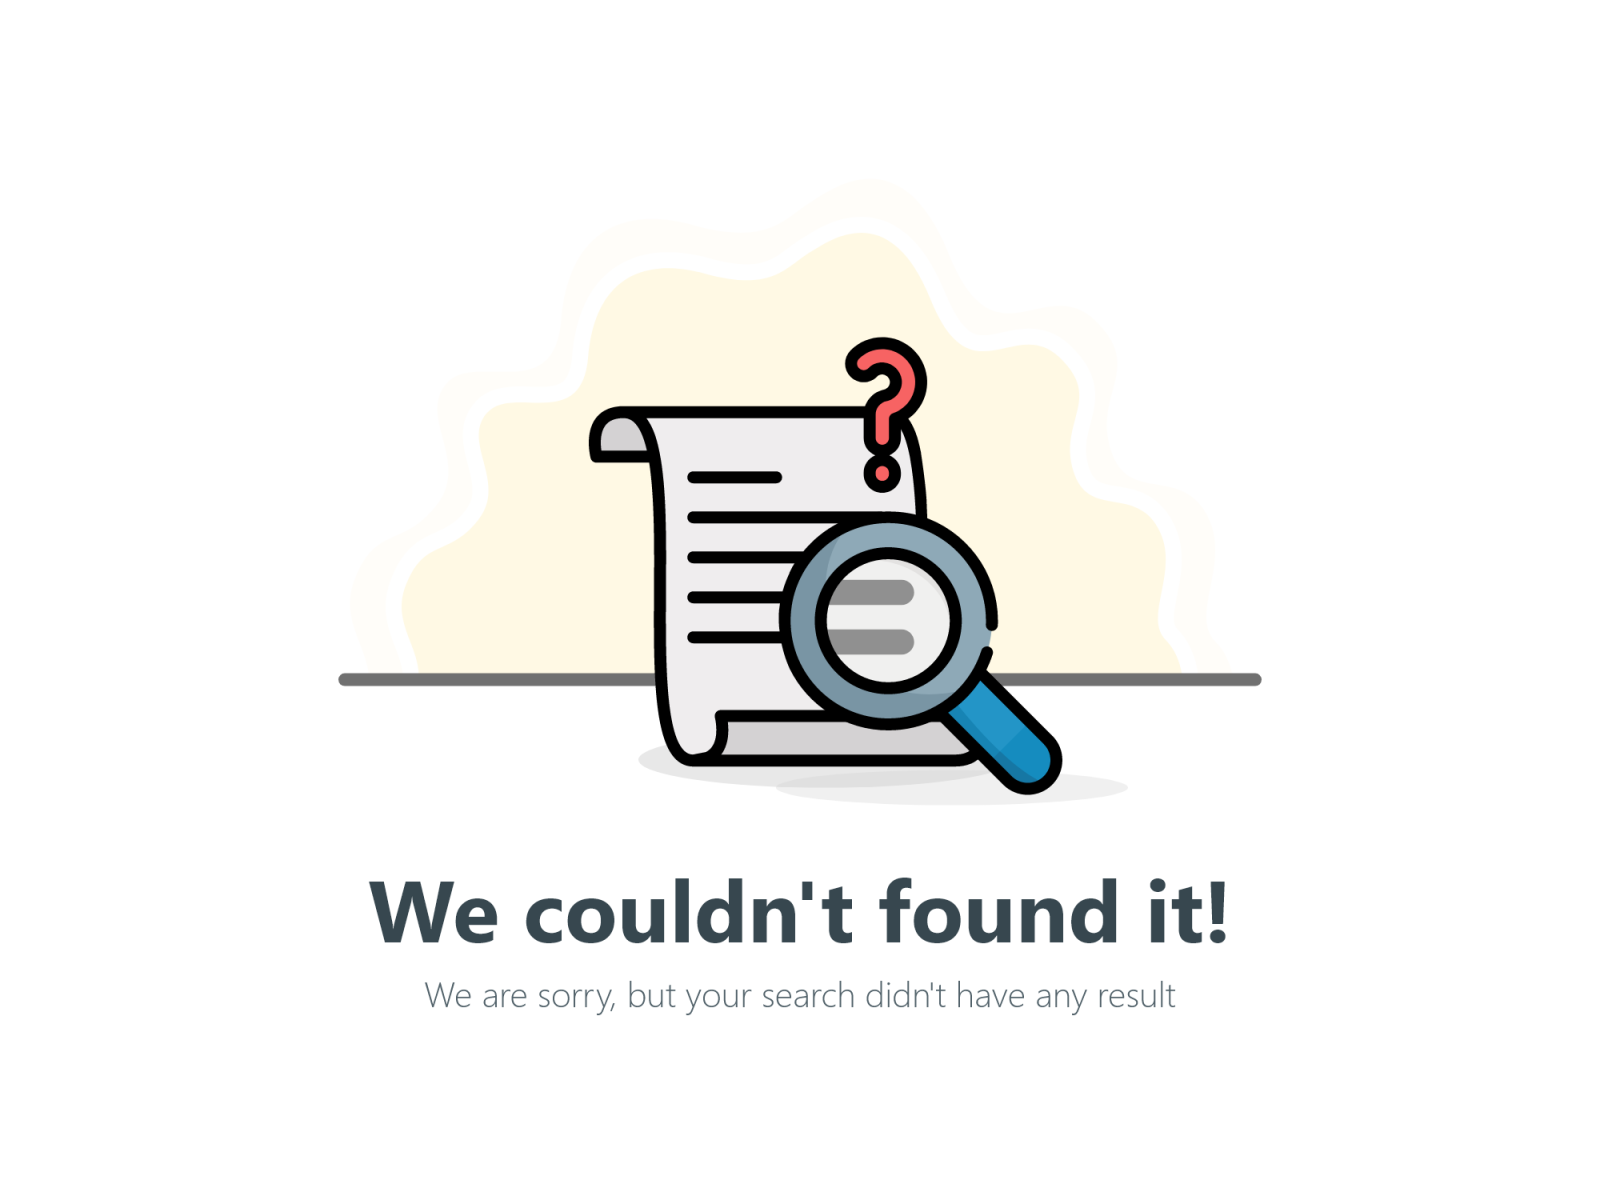
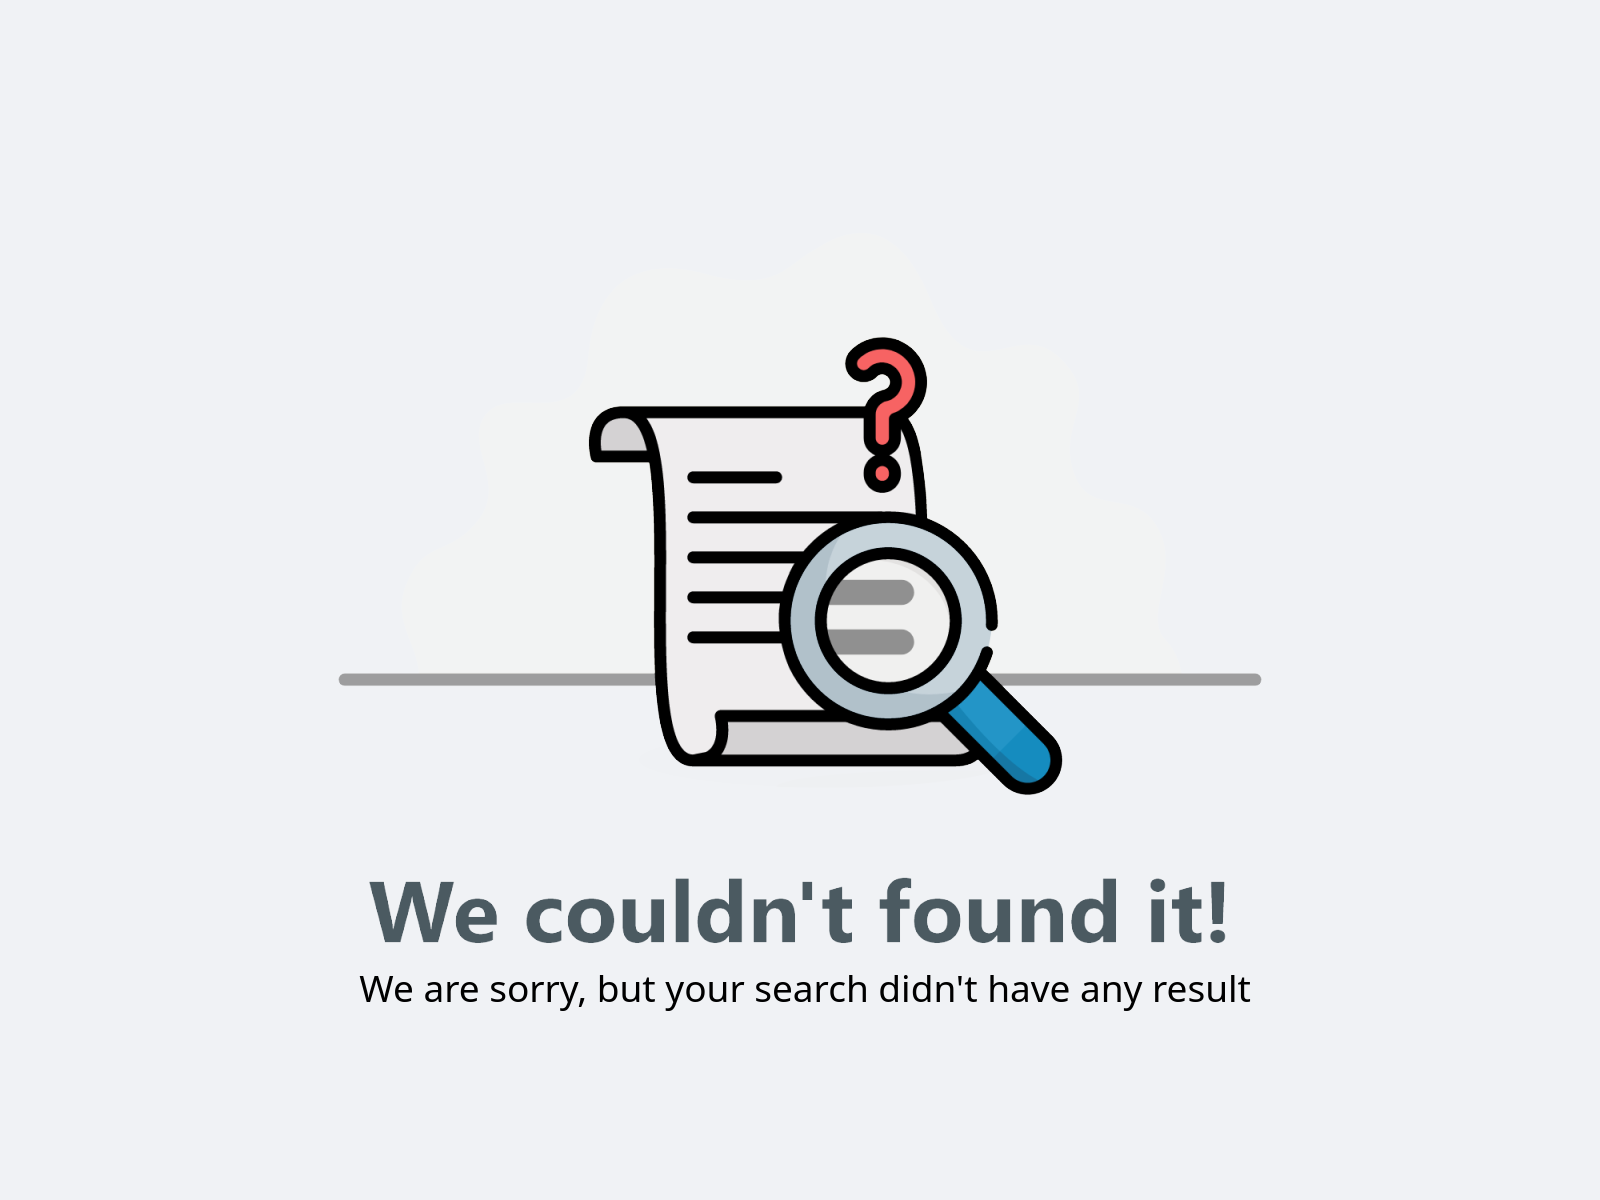
:lipstick: add not found image in searchDecks

diff --git a/ui/src/componentes/SearchDecks.js b/ui/src/componentes/SearchDecks.js
@@ -193,9 +193,8 @@ const SearchDecks = props => {
                 </div>
 
                 {(filteredData.length == 0)?
-                  <div className="not-found">
-                      <img className="not-found-image" src={require("../Assets/not_found.png")}
-                           alt="logo-flipsy-cartas"/>
+                  <div>
+                      <img className="not-found-image" src={require("../Assets/not_found.png")} alt="logo-flipsy-cartas"/>
                   </div>
                   :
                 <div className='list-main-container'>

diff --git a/ui/src/Styles/SearchDecks.css b/ui/src/Styles/SearchDecks.css
@@ -3,16 +3,14 @@
     height: 10%;
 }
 
-.not-found{
-    display: flex;
-    flex-direction: column;
-    justify-content: center; 
-    align-items :center;
-}
-
 .not-found-image{
-    height: 80%;
-    width: 80%;
+    position: absolute;
+    top: 50%;
+    left: 50%;
+    width: 600px;
+    height: 500px;
+    margin-top: -250px; /* Half the height */
+    margin-left: -300px; /* Half the width */
 }
 
 .mini-deck{
